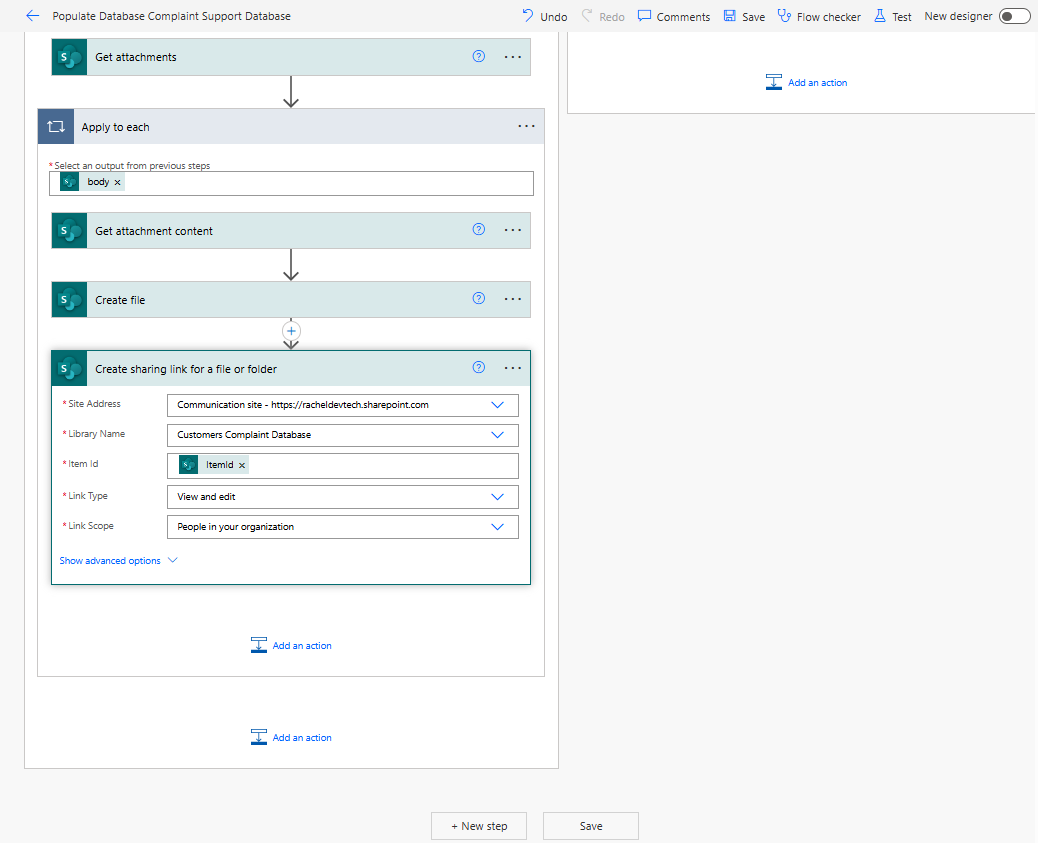
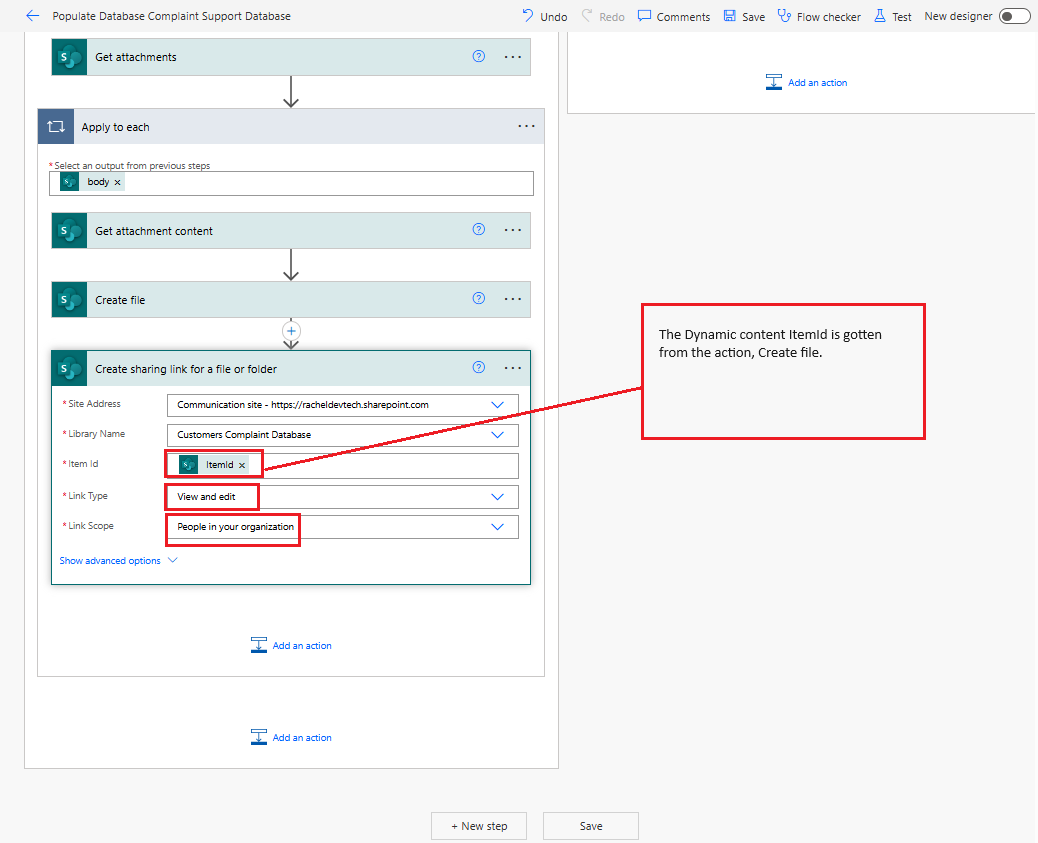
more content added

diff --git a/README.md b/README.md
@@ -32,11 +32,11 @@ Disclaimer: This is not an actual bank, but a scenario I created.
 
 -  When an item is created
 
--  Initialize Variable
+-  Initialize variable
 
 - Condition 
      - Get Attachments
-     - Apply to each (renamed to For each)
+     - Apply to each
        - Get attachment content 
        - Create file 
        - Create sharing link for a file or folder
@@ -51,6 +51,7 @@ In this context, the Customer Complaint will be referred to as SharePoint list A
 #### Prerequisites
 - Have a Power Automate license or access to use Power Automate.
 - SharePoint Document Library (this will be used to save the attachment gotten from SharePoint List A and saved as a Link in SharePoint List B). 
+- Have a Multiple line of text column in SharePoint list B and text format is rich text. This column will be used for the link of the attachment saved in SharePoint list B. 
 <br>
 
 # Step by Step Process 
@@ -201,13 +202,36 @@ Figure 24:
 ![figure25.png](/Images/figure25.png)
 Figure 25:
 
-21. 
+21. In the Compose action, add the copy and paste the HTML hyperlink below. 
 
 ```html
 <a href ="Link">Name</a><br>
 ```
+![figure26.png](/Images/figure26.png)
+Figure 26:
 
-9. Here, we will be storing the items retrieved from the Customer Complaint SharePoint list (SharePoint list A) into the Customer Support Database (SharePoint list B). In the If yes of the Condition action, click on Add an action. Search and add the action Create item. On Site address and List name, select the SharePoint list you need to save the data and attachment to (which is SharePoint list B).
+
+22. In the Compose action, where we have Link remove it and go to Dynamic content, search and add the dynamic content **Sharing Link** (this is coming from the action create sharing link for a file or folder). Next, in the HTML hyperlink, remove the Name text and add the dynamic content **Display Name** (this is coming from the action, Get attachments).
+
+![figure27.png](/Images/figure27.png)
+Figure 27: 
+
+
+23. After the Compose action, inside the Apply to each action click on Add an action, search and add the action **Append to string variable**. Append to string variable; In the Name field, click on the drop-down icon and select Attachment (this is a variable coming from Initialize variable). In Value, go to dynamic content and select the output coming the **Compose** action, this is shown in figure 28. 
+
+
+![figure28.png](/Images/figure28.png)
+Figure 28:
+
+
+24. Here, we will be storing the items retrieved from the Customer Complaint SharePoint list (SharePoint list A) into the Customer Support Database (SharePoint list B). In the Apply to each action, click on **Add an action**, search and add the action **Create item** (this is an action from SharePoint). 
+
+![figure29.png](/Images/figure29.png)
+Figure 29: The Create item action with the SharePoint site and list selected. 
+
+
+
+25. 
 
 
 Now, let's add the data from the columns we wish to save from the Customer Complaint (SharePoint list A) to the Customer Support Database (SharePoint list B). Create item action; in the 'AccountNumber' field, from the dynamic content, search and select the 'AccountNumber' dynamic content (originating from the trigger when an item is created).
